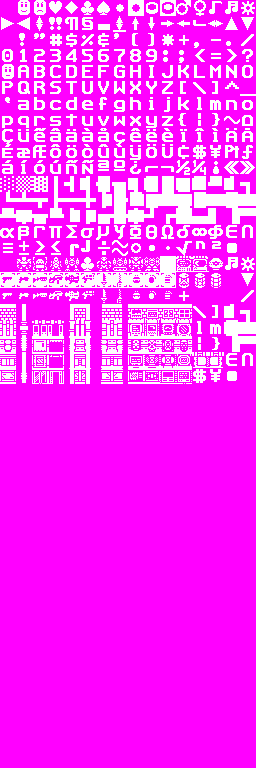
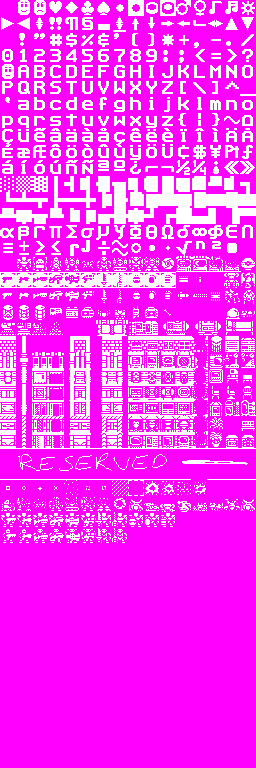
Updating graphics

Changed region(s): [[0.0, 0.3125, 1.0, 0.7188], [0.9375, 0.6562, 1.0, 0.6875]]

diff --git a/RogueBasin/RogueBasin/StringEquivalent.cs b/RogueBasin/RogueBasin/StringEquivalent.cs
@@ -58,8 +58,7 @@ namespace RogueBasin
             TerrainChars.Add(MapTerrain.SkeletonWall, '8');
             TerrainChars.Add(MapTerrain.SkeletonWallWhite, '8');
             TerrainChars.Add(MapTerrain.Corridor, '|');
-            TerrainChars.Add(MapTerrain.ClosedDoor, (char)322);
-            TerrainChars.Add(MapTerrain.OpenDoor, (char)323);
+            
             TerrainChars.Add(MapTerrain.Flooded, '=');
             TerrainChars.Add(MapTerrain.Grass, ',');
             TerrainChars.Add(MapTerrain.River, '=');
@@ -73,9 +72,12 @@ namespace RogueBasin
             TerrainChars.Add(MapTerrain.BarDoor, '|');
             TerrainChars.Add(MapTerrain.DockWall, (char)368);
 
-            int shroomWallStartRow = 19;
+            int shroomWallStartRow = 21;
             int shroomWallSkip = 7;
             int rowLength = 16;
+
+            TerrainChars.Add(MapTerrain.ClosedDoor, (char)((shroomWallStartRow + 1) * rowLength + 2));
+            TerrainChars.Add(MapTerrain.OpenDoor, (char)((shroomWallStartRow + 1) * rowLength + 3));
 
             TerrainChars.Add(MapTerrain.BrickWall1, (char)((shroomWallStartRow + 0) * rowLength + 0));
             TerrainChars.Add(MapTerrain.BrickWall2, (char)((shroomWallStartRow + 0) * rowLength + shroomWallSkip + 1));

diff --git a/RogueBasin/RogueBasin/Locks/SimpleLockedDoor.cs b/RogueBasin/RogueBasin/Locks/SimpleLockedDoor.cs
@@ -43,12 +43,16 @@ namespace RogueBasin.Locks
 
         protected override char GetRepresentation()
         {
+            int shroomWallStartRow = 21;
+            int shroomWallSkip = 7;
+            int rowLength = 16;
+
             if (isOpen)
             {
-                return (char)355;
+                return (char)((shroomWallStartRow + 2) * rowLength + 3);
             }
             else
-                return (char)354;
+                return (char)((shroomWallStartRow + 2) * rowLength + 2);
         }
 
         public override libtcodWrapper.Color RepresentationColor()

diff --git a/RogueBasin/RogueBasin/Items/Clue.cs b/RogueBasin/RogueBasin/Items/Clue.cs
@@ -64,7 +64,7 @@ namespace RogueBasin.Items
 
         protected override char GetRepresentation()
         {
-            return (char)272;
+            return (char)307;
         }
 
         public override bool UseHiddenName { get { return false; } }
